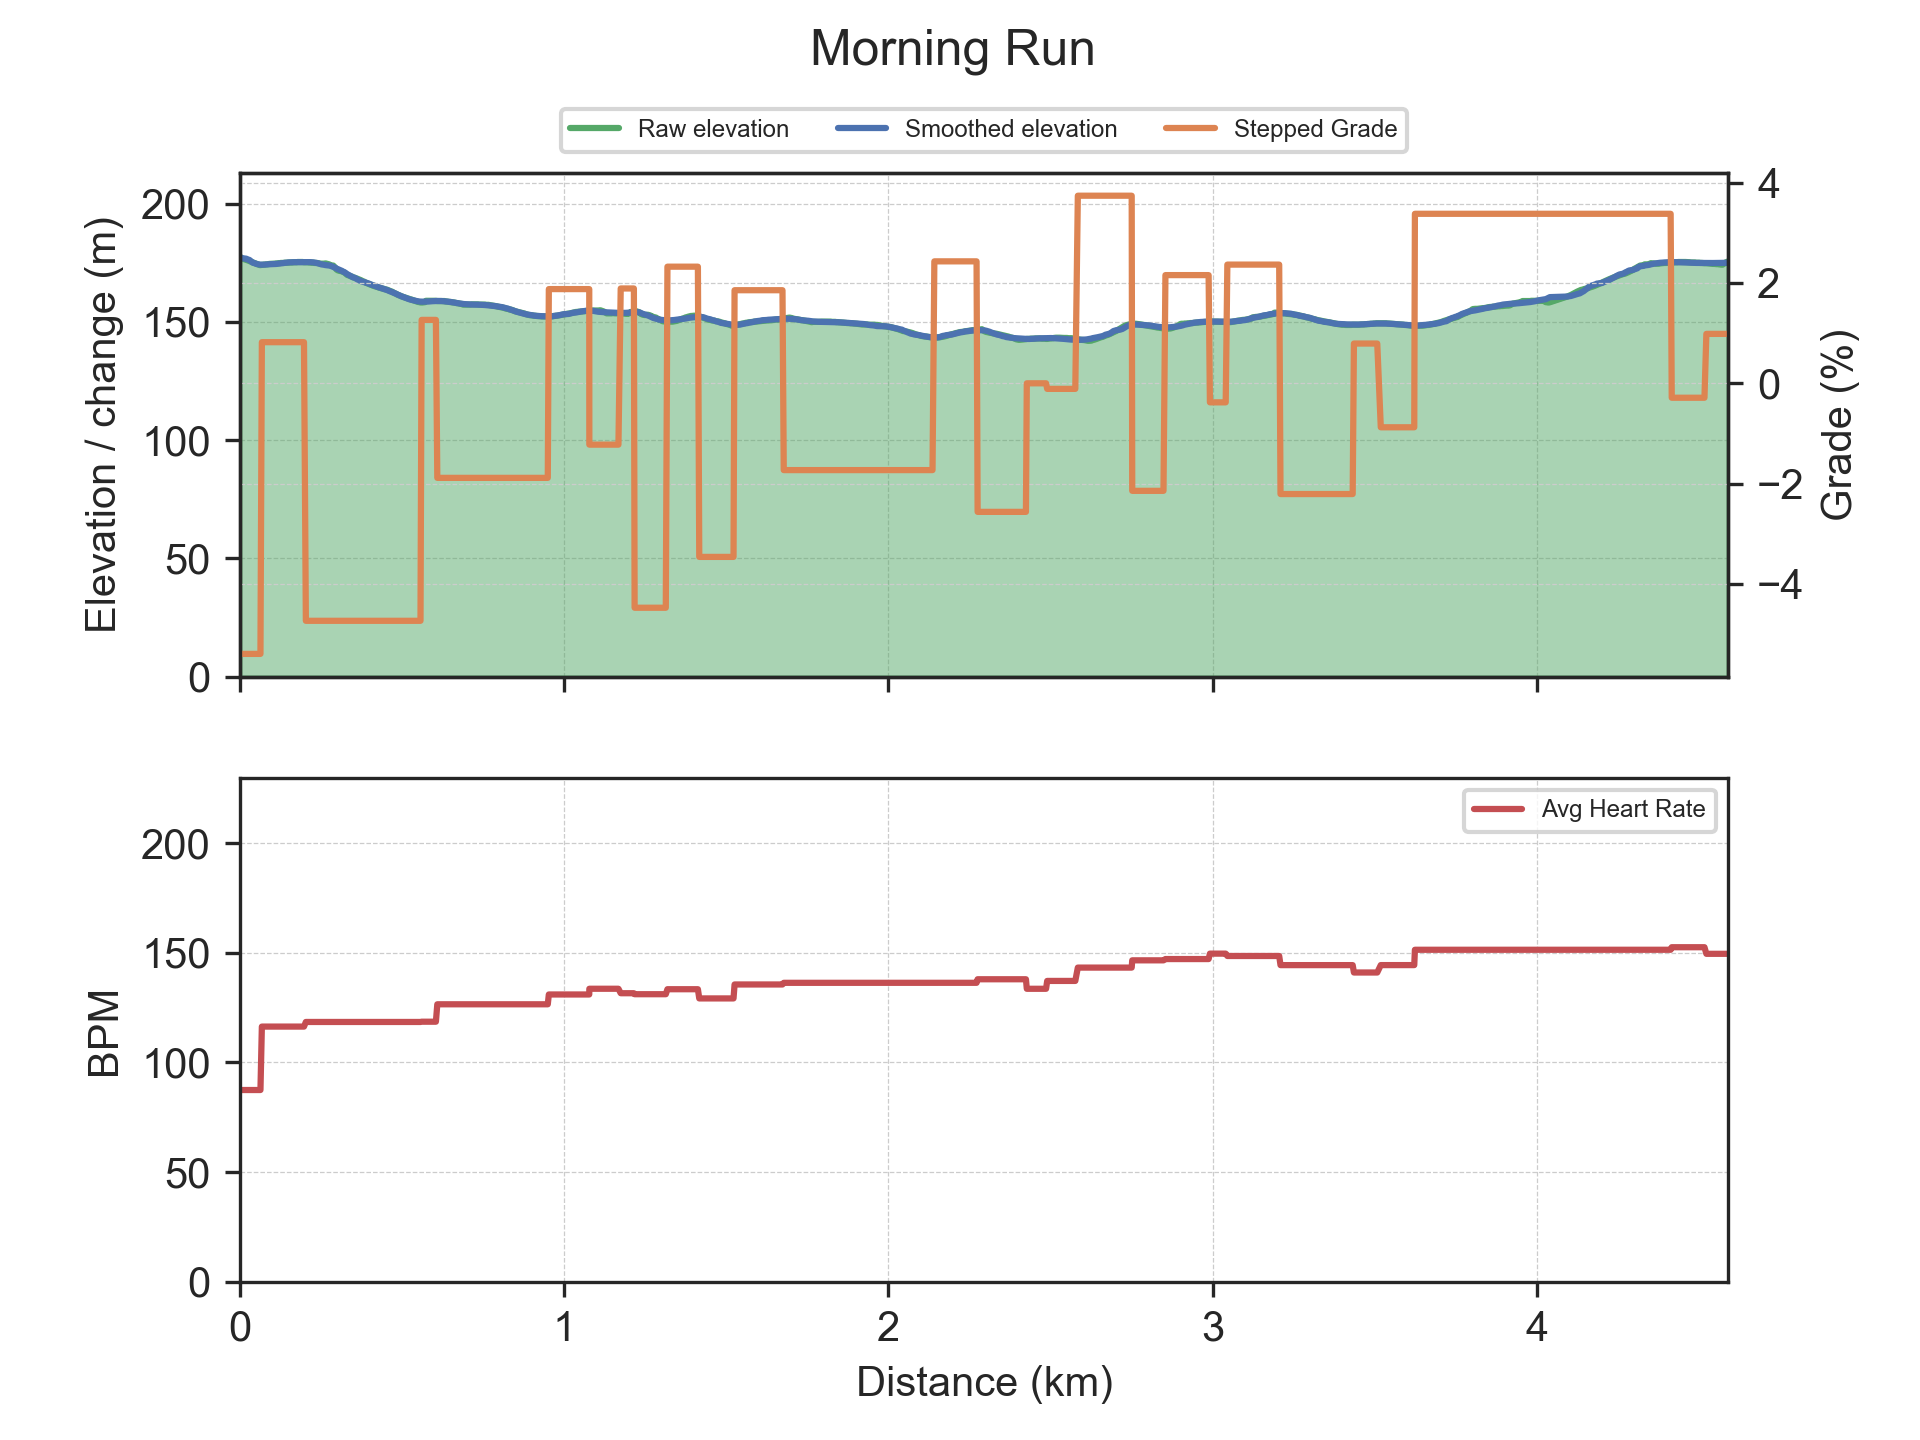
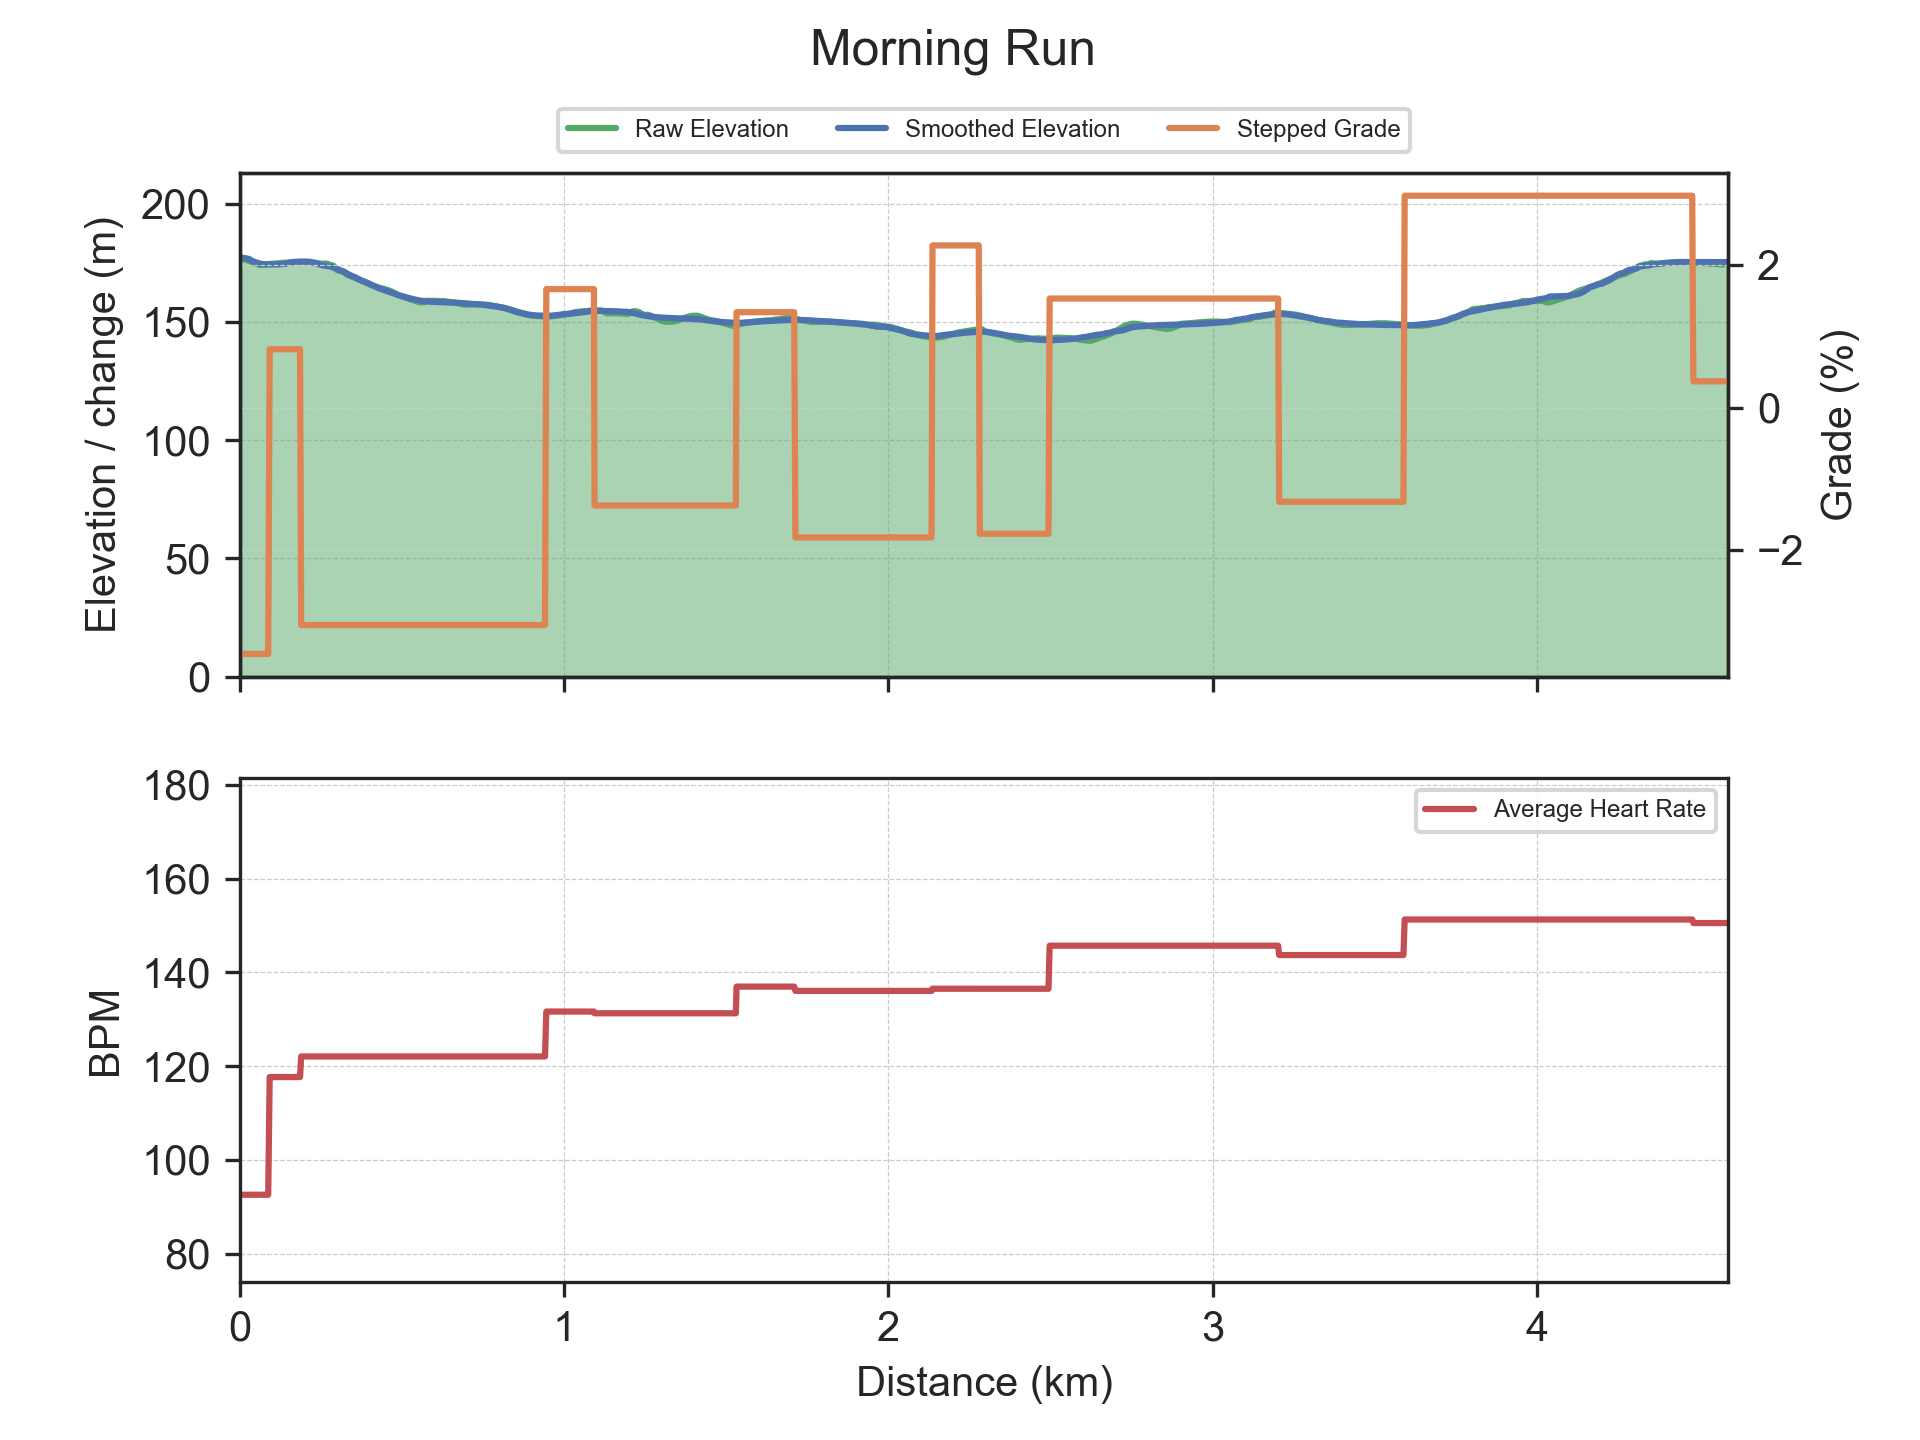
Small refactoring
- use default #!
- some constants
- regenerated plots with latest code

diff --git a/gpx/grade.py b/gpx/grade.py
@@ -1,4 +1,4 @@
-#! /
+#!/bin/python
 # coding: utf-8
 
 import gpxpy
@@ -11,6 +11,14 @@ import seaborn as sns
 
 from argparse import ArgumentParser
 from haversine import haversine
+
+_GPX_HR_TAG = "hr"
+# percentage spacing above and below where required
+_PLOT_PADDING = 0.2
+_PLOT_DPI = 300
+# default cut-off for the filter
+_FILTER_DEFAULT_CUT_OFF = 0.03
+_FILTER_ORDER = 5
 
 if __name__ == "__main__":
     parser = ArgumentParser()
@@ -40,7 +48,7 @@ if __name__ == "__main__":
             elevations.append(point.elevation or elevations[-1])
         if point.extensions:
             for extension in point.extensions[0].getchildren():
-                if extension.tag[-2:] == 'hr':
+                if extension.tag[-2:] == _GPX_HR_TAG:
                     heart_rates.append(int(extension.text))
         point_prev = point
 
@@ -54,10 +62,10 @@ if __name__ == "__main__":
     # if average speed is roughly more than 15km/h then relax the filter cut-off to get smoother elevation data
     # walk/run: 0.05
     # cycle: 0.01 - cause it's faster
-    cut_off = 0.03
+    cut_off = _FILTER_DEFAULT_CUT_OFF
     #if average_speed >= 4.2:
     #   cut_off = 0.01
-    butterworth_filter = signal.butter(5, cut_off)
+    butterworth_filter = signal.butter(_FILTER_ORDER, cut_off)
     elevations_filtered = signal.filtfilt(butterworth_filter[0], butterworth_filter[1], elevations)
     gradient = np.diff(elevations_filtered)
     zero_crossings = np.where(np.diff(np.sign(gradient)))[0]
@@ -96,7 +104,7 @@ if __name__ == "__main__":
     ax1.fill_between(x, elevations, 0, color=palette[2], alpha=0.5)
     ax1.plot(x, elevations_filtered, color=palette[0], label='Smoothed Elevation')
     ax1.set_xlim(min(x), max(x))
-    ax1.set_ylim(0, max(elevations)*1.2)
+    ax1.set_ylim(0, max(elevations)*(1 + _PLOT_PADDING))
     ax1.set_ylabel('Elevation / change (m)')
     ax1.grid()
 
@@ -112,8 +120,8 @@ if __name__ == "__main__":
     if args.plot_heart_rate and heart_rates:
         ax3.set_xlim(min(x), max(x))
         # email me if you're alive if your heart rate exceeded 230 bpm
-        ax3.set_ylim(50, 230)
-        ax3.plot(x[:-1], np.array(heart_rate_averages), color=palette[3], label='Avg Heart Rate')
+        ax3.set_ylim(min(heart_rate_averages)*(1 - _PLOT_PADDING), max(heart_rate_averages)*(1 + _PLOT_PADDING))
+        ax3.plot(x[:-1], np.array(heart_rate_averages), color=palette[3], label='Average Heart Rate')
         ax3.set_xlabel('Distance (km)')
         ax3.set_ylabel('BPM')
         ax3.legend(loc='upper right', fontsize='xx-small')
@@ -129,5 +137,5 @@ if __name__ == "__main__":
 
     (input_basename, _) = os.path.splitext(os.path.basename(args.filename))
     output_filename = '.'.join([input_basename, "png"])
-    plt.savefig(output_filename, dpi=300)
+    plt.savefig(output_filename, dpi=_PLOT_DPI)
     plt.close()

diff --git a/gpx/cadence.py b/gpx/cadence.py
@@ -1,4 +1,4 @@
-#!/Users/parautenbach/anaconda/bin/python
+#!/bin/python
 
 import gpxpy
 import gpxpy.gpx

diff --git a/gpx/filter.py b/gpx/filter.py
@@ -1,4 +1,4 @@
-#!/Users/parautenbach/anaconda/bin/python
+#!/bin/python
 
 import gpxpy
 import gpxpy.gpx
